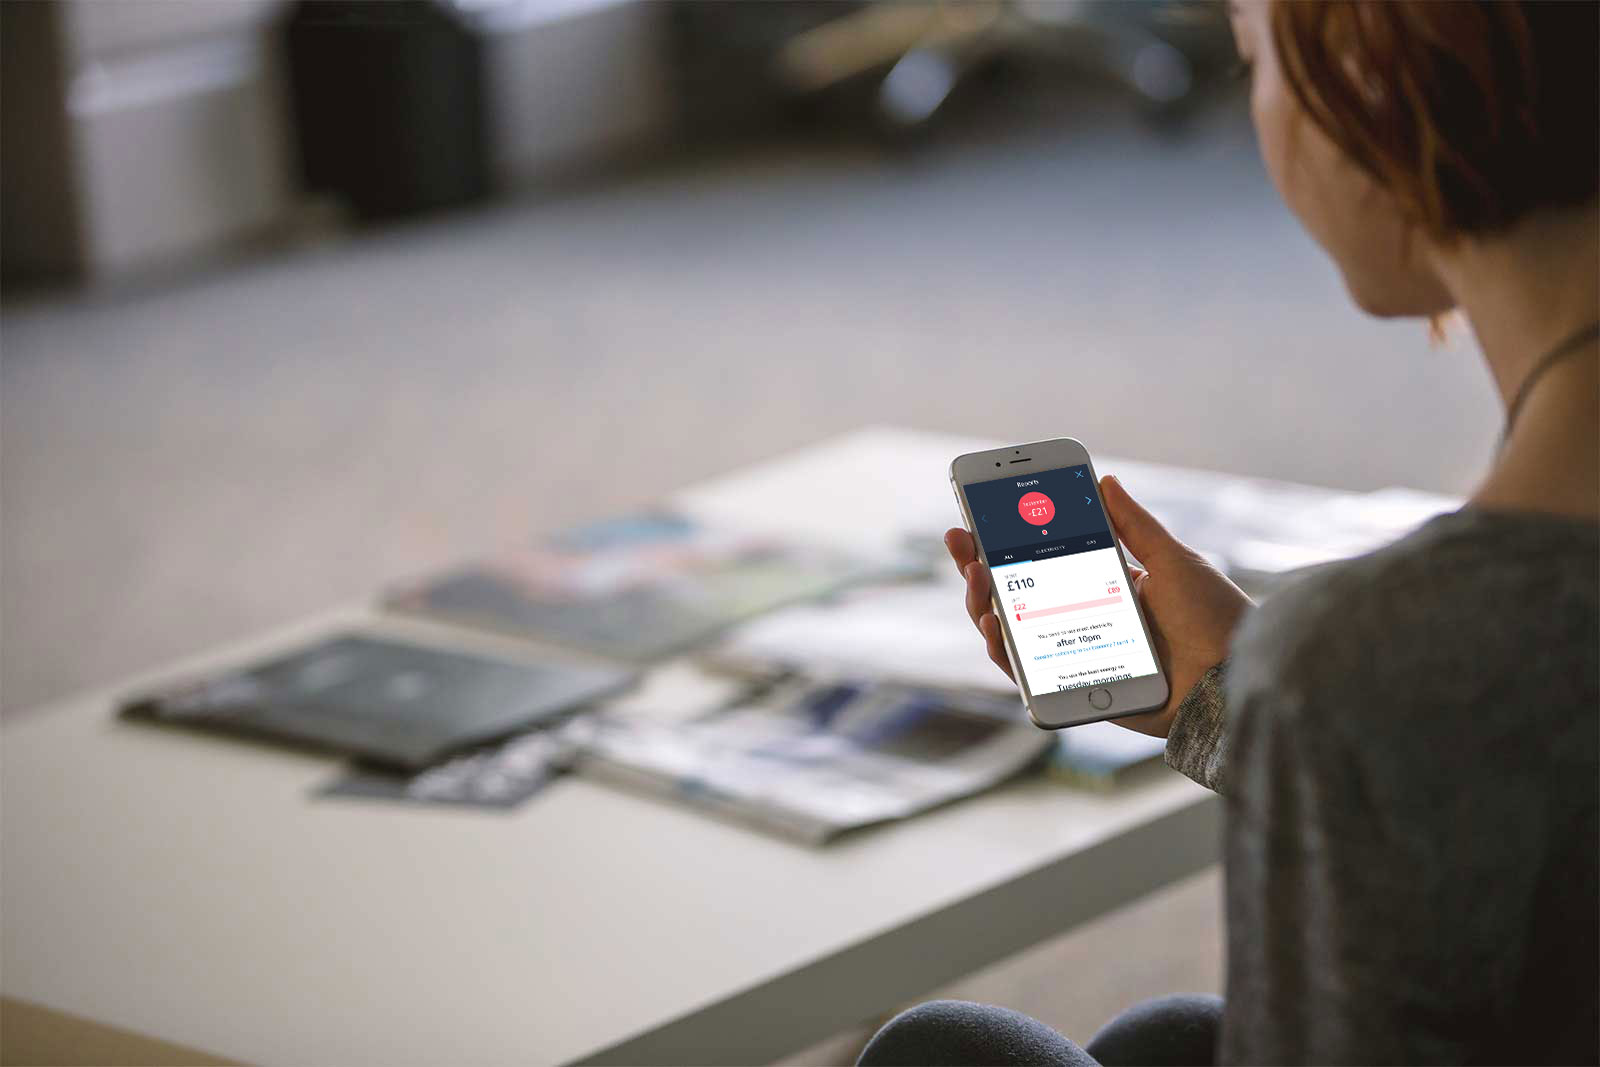
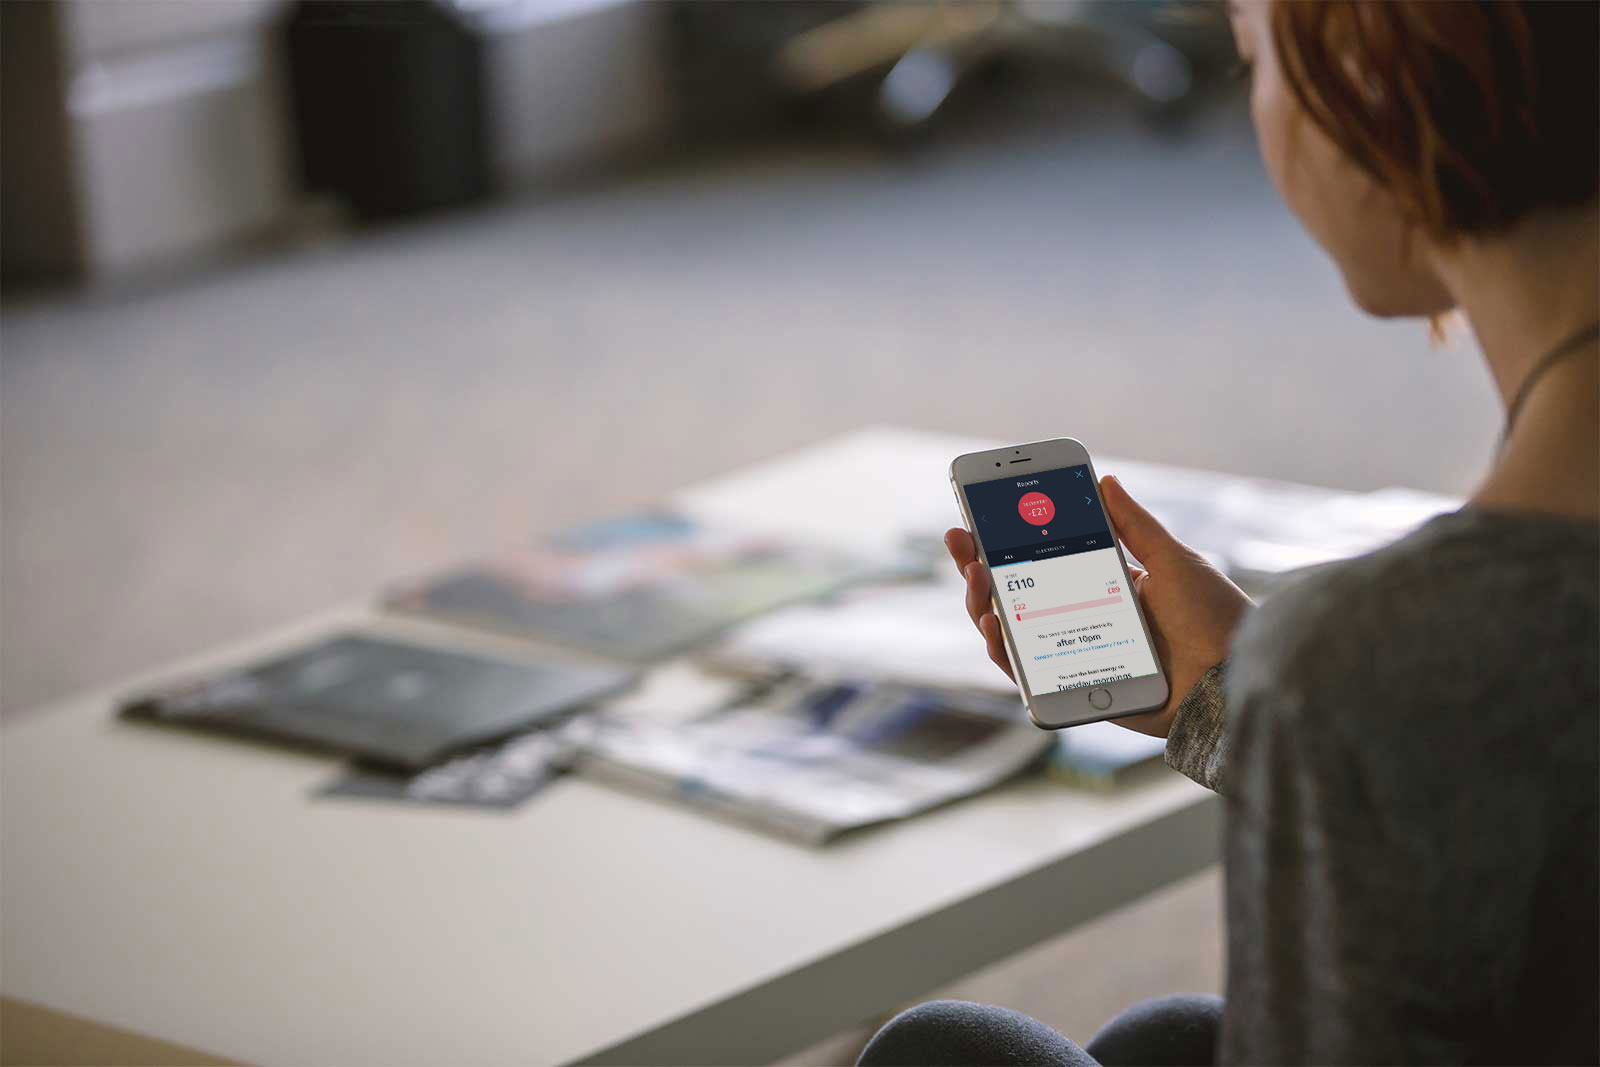
Changed the ribbon size and altered BG image for readability
Layer of shade on image and smaller font on ribbon

Changed region(s): [[0.5938, 0.4948, 0.7188, 0.6495], [0.625, 0.4639, 0.6562, 0.4948]]

diff --git a/css/custom.css b/css/custom.css
@@ -68,6 +68,7 @@ Add your custom styles below
 /* The ribbons */
 
 .corner-ribbon {
+  font-family: 'Lato','Helvetica Neue', 'Helvetica', Arial, sans-serif;
   width: auto;
   background: #F54B5E;
   position: absolute;
@@ -75,13 +76,13 @@ Add your custom styles below
   left: 0;
   text-align: center;
   text-transform: uppercase;
-  line-height: 50px;
+  line-height: 1.4;
   letter-spacing: 0px;
   color: #fff;
   transform: rotate(-45deg);
   -webkit-transform: rotate(-45deg);
-  font-size: 14px;
-  padding: 0 18px;
+  font-size: 11px;
+  padding: 10px;
   font-weight: bold;
   z-index: 999999;
 }
